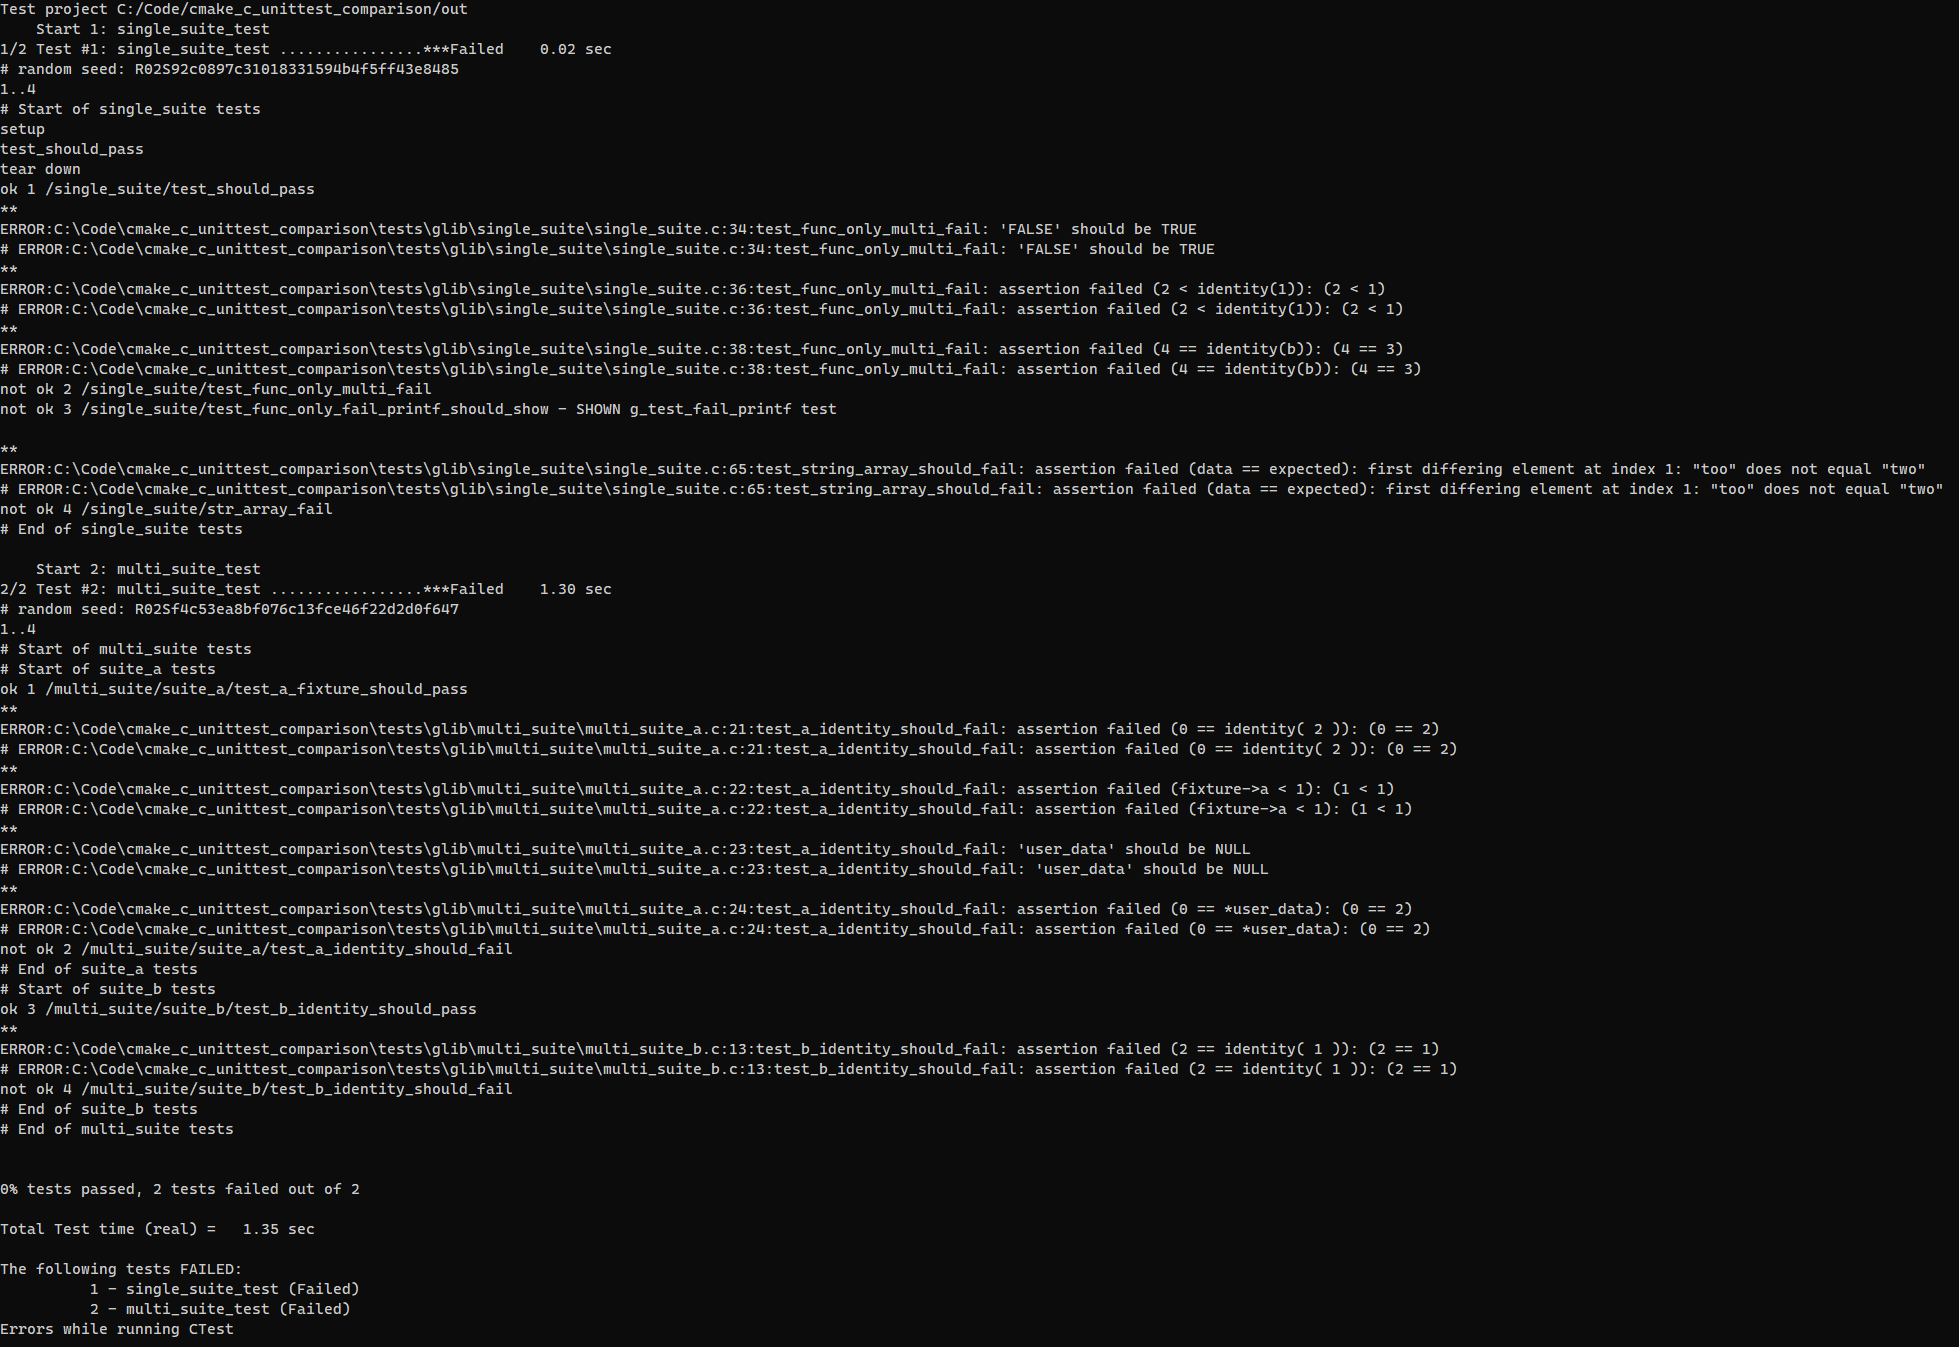
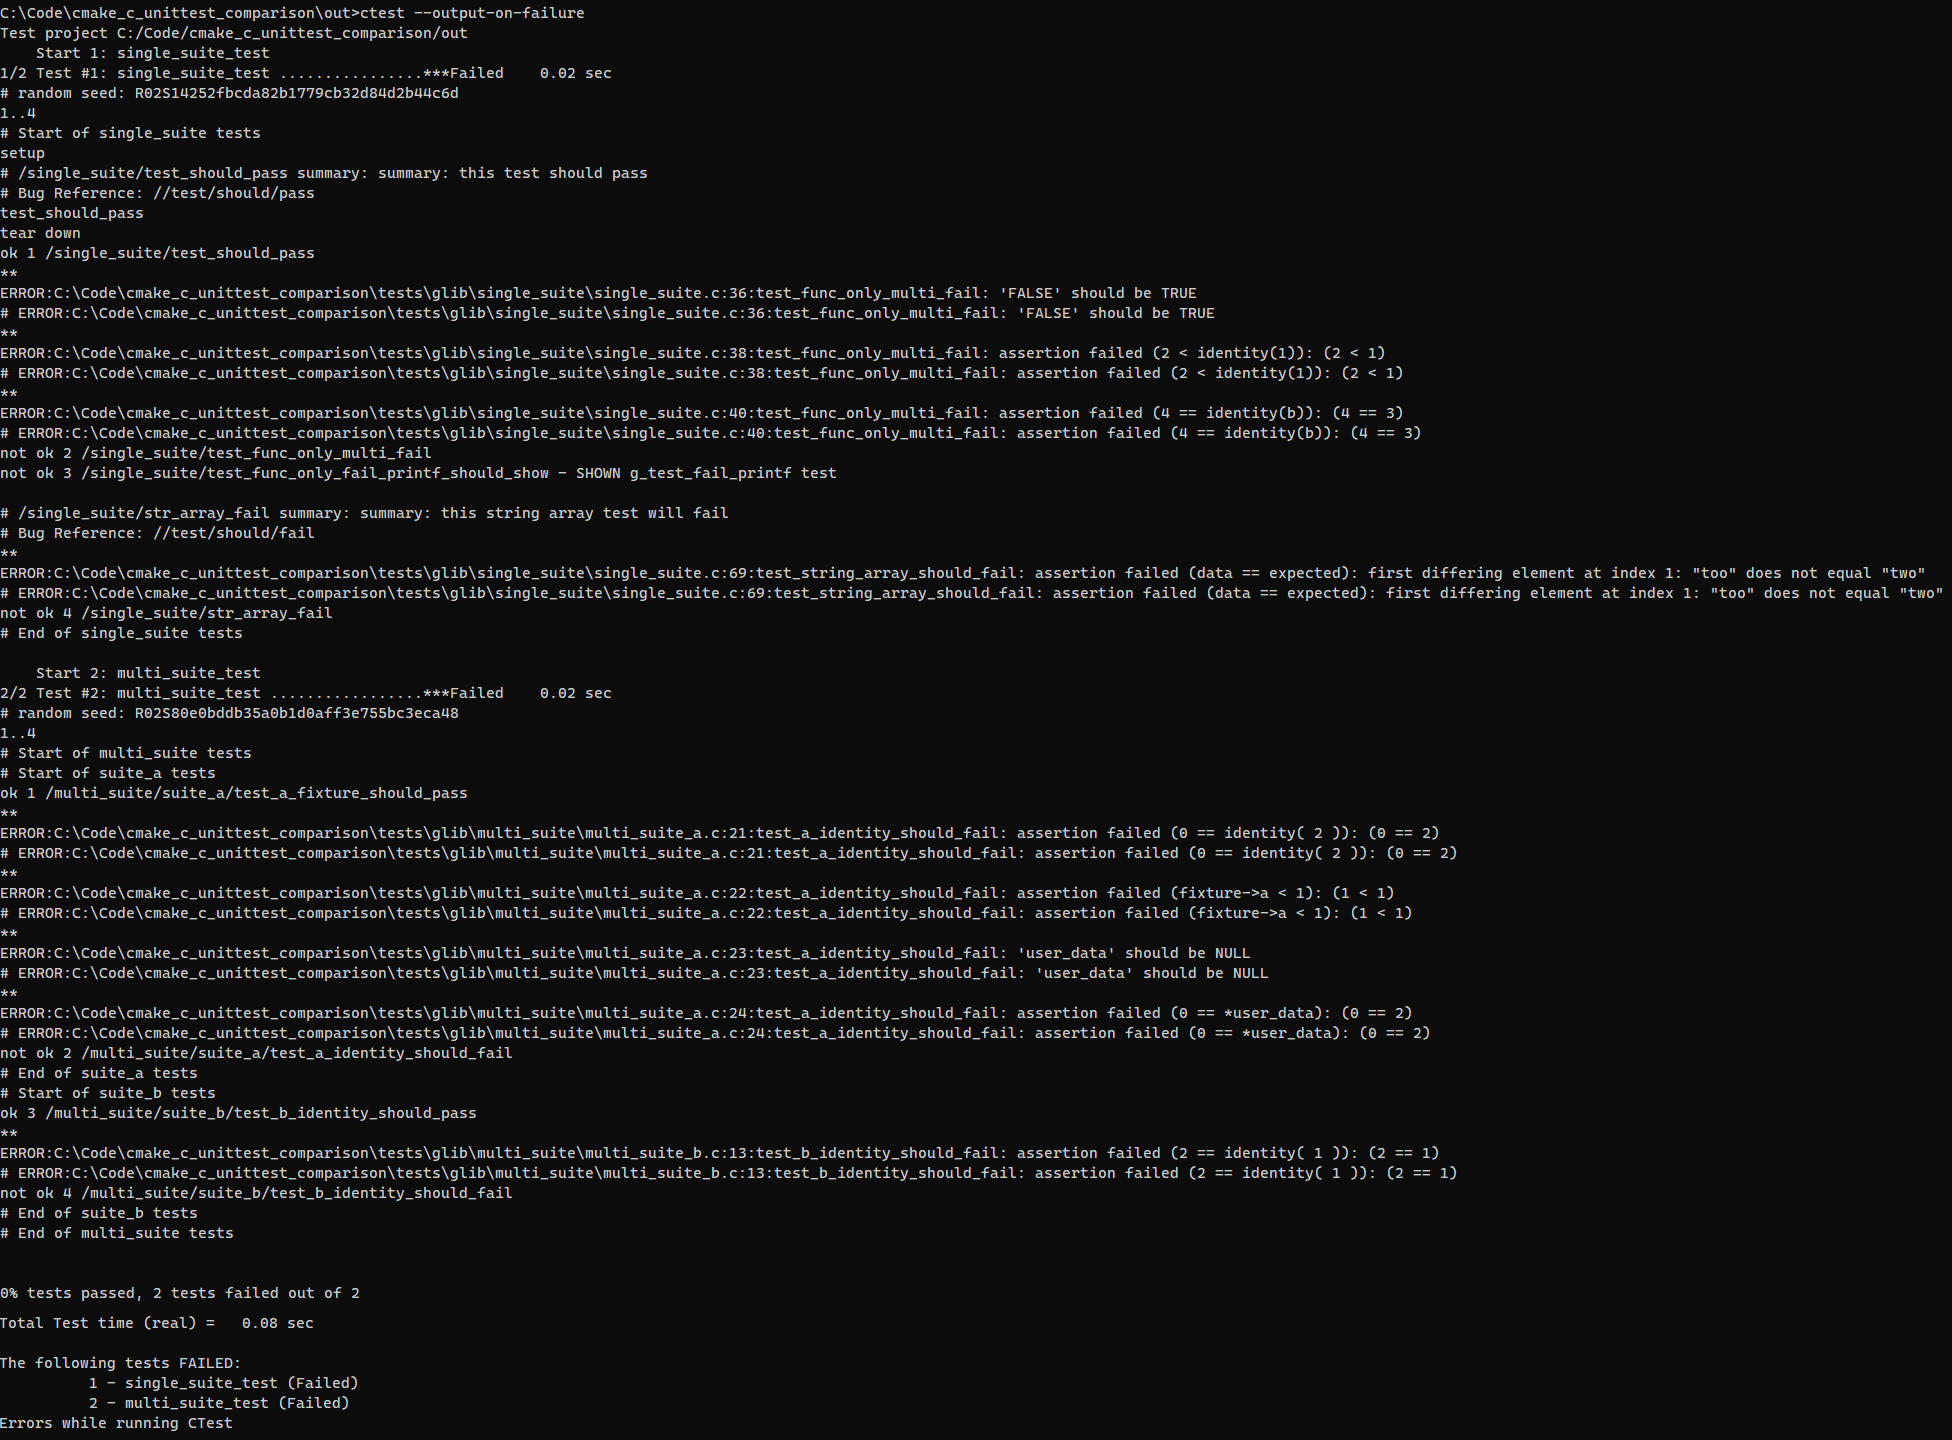
glib readme finished; test summary and bug code added to single suite

Changed region(s): [[0.0, 0.0, 1.0, 0.9978], [0.2812, 0.4677, 0.3125, 0.4989], [0.2812, 0.0935, 0.3125, 0.1247]]

diff --git a/tests/glib/single_suite/single_suite.c b/tests/glib/single_suite/single_suite.c
@@ -21,6 +21,8 @@ teardown( MyFixture *fixture, gconstpointer user_data )
 static void
 test_should_pass( MyFixture *fixture, gconstpointer user_data )
 {
+    g_test_summary("this test should pass");
+    g_test_bug("//test/should/pass");
     g_print("test_should_pass\n");
     g_assert_nonnull(fixture);
     g_assert_cmpint(fixture->a, ==, 1);
@@ -61,6 +63,8 @@ test_trap_failure_and_stdout( const int *user_data )
 static void
 test_string_array_should_fail( const char **expected )
 {
+    g_test_summary("this string array test will fail");
+    g_test_bug("//test/should/fail");
     const char *data[] = { "one", "too", "three", NULL };
     g_assert_cmpstrv( data, expected );
 }

diff --git a/README.md b/README.md
@@ -12,14 +12,13 @@ This is, obviously, a work in progress.
 
 ## 2. List of Candidates
 
-1. [GLib testing framework](https://docs.gtk.org/glib/testing.html)
-2. [cmocka](https://cmocka.org/)
-3. [µnit (munit)](https://nemequ.github.io/munit/)
-4. [ctest](https://github.com/bvdberg/ctest) (not the one included in CMake)
-5. [Cgreen](https://github.com/cgreen-devs/cgreen)
-6. [Criterion](https://github.com/Snaipe/Criterion/)
-7. [tau](https://github.com/jasmcaus/tau/)
-8. [libcester](https://github.com/exoticlibraries/libcester)
+1. [cmocka](https://cmocka.org/)
+2. [µnit (munit)](https://nemequ.github.io/munit/)
+3. [ctest](https://github.com/bvdberg/ctest) (not the one included in CMake)
+4. [Cgreen](https://github.com/cgreen-devs/cgreen)
+5. [Criterion](https://github.com/Snaipe/Criterion/)
+6. [tau](https://github.com/jasmcaus/tau/)
+7. [libcester](https://github.com/exoticlibraries/libcester)
 
 ## 3. Impressions
 
@@ -32,8 +31,6 @@ This is, obviously, a work in progress.
 - original home: <https://cunit.sourceforge.net/example.html>
 
 **Activity and Maintainers**: single developer; repo inactive; besides a recent version bump, last commit was >1 year ago.
-
-**Popularity**: mentioned in multiple forum discussions; it's a well known and mature library, I guess.
 
 **Documentation**: pre-fork CUnit has detailed docs; the new fork's docs don't go much beyond simple usage with the new CUnitCI API.
 
@@ -55,7 +52,6 @@ This is, obviously, a work in progress.
 - [x] test context shared via global variables
 - [x] easy to use with one executable / test code file  (see [single_suite](tests/cunit/single_suite/) example)
 - [x] multiple tests / suites can be linked into one executable (though this isn't well documented, see [multi_suite](tests/cunit/multi_suite/) example);
-- [ ] no mocking
 - [ ] no individual test timing
 
 **Asserts**:
@@ -120,8 +116,6 @@ Condition: 'CU_ASSERT_EQUAL(99,identity( a ))'
 
 **Activity and Maintainers**: 100+ contributors, though only 1 contributor has committed code in 2023 (as of April 2023). The last bugfix release was in 2021 Jan; last feature release in 2019 Oct; main maintainer [claims](https://groups.google.com/g/throwtheswitch/c/JKg9GgdeYHw) that development is active and going mostly in the direction of Ceedling and such, and the forums are pretty active too.
 
-**Popularity**: many mentions, seems to be popular
-
 **Documentation**: the docs describe a simple use case and that part is easy to understand, easy to implement and integrate. However, there'a lot beyond that that's hidden in the code and examples. For example, the only references on `unity_fixtures` are comments in the source and the [2nd example](https://github.com/ThrowTheSwitch/Unity/tree/master/examples/example_2). While it may not meant to be the main way to use Unity, it should be better documented if it exists. Also, some configuration options that are documented and are supposed to change the output (e.g. `UNITY_OUTPUT_FOR_ECLIPSE`) don't seem to be doing anything.
 
 **Ease of use**: easy; there's a "general" mode that suits 1 exe / code file, and a "fixture" mode with test group functionality; both modes are fairly simple to use... with exceptions in the latter due to lack of docs. On the other hand, a lot of additional functionality is provided by _Ruby_ scripts (e.g. test generators), which is unfortunate as I don't want to use _Ruby_.
@@ -141,7 +135,6 @@ Got a lot of warnings, though, when I actually included `unit_fixture` in the bu
 - [x] general usage of one test executable / file
 - [x] `setUp` and `tearDown` functions run before each test; context shared via global variables
 - [x] `unity_fixtures` can handle test groups; enables collecting tests from multiple files, and group-specific setup/teardown functions
-- [ ] no mocking, but CMock from same developer is recommended; uses Ruby scripts, though
 
 **Asserts**: [list](https://github.com/ThrowTheSwitch/Unity/blob/master/docs/UnityAssertionsReference.md)
 
@@ -174,34 +167,45 @@ Furthermore, the output is not consistent between `unity` and `unity_fixture`. T
 - home: <https://docs.gtk.org/glib/testing.html>
 - repo: <https://gitlab.gnome.org/GNOME/glib>
 
-**Activity and Maintainers**: active
-
-**Popularity**: GLib itself is well known, haven't found too many mentions of the test module itself, though.
+**Activity and Maintainers**: active; GLib has a big community
 
 **Documentation**: pretty good, same as GLib
 
-**Ease of use**: depends - it's easy to create and register tests, set up fixtures. On the other hand, I wasn't able to get subprocess _traps_ to work on Windows. First it errored out telling me that some kind of _helper_ was missing, then when I supplied `gspawn-win64-helper.exe` and `gspawn-win64-helper.exe`, it threw an error that it couldn't read from the subprocess's pipe. The _helper_ isn't mentioned in the docs, and there isn't much about it in forums either. I gave up and commented `test_trap_failure_and_stdout` out.
+**Ease of use**: depends - it's easy to create and register tests, set up fixtures. On the other hand, I wasn't able to get subprocess _traps_ to work on Windows. First it errored out telling me that some kind of _helper_ was missing, of which I found no mentions in the docs whatsoever. Digged up some related topics online that hinted at the existence of a helper executable on Windows. I was able to acquire `gspawn-win64-helper.exe` and `gspawn-win64-helper.exe` from a Gimp installation, but even with those present the test threw an error that it couldn't read from the subprocess's pipe. Again, not much information online how to solve that. I assume that a proper installation (build) of GLib would not have this issue(?), but I'd decided not to bother with that so I gave up and commented `test_trap_failure_and_stdout` out.
 
-**CMake integration**: More complex than the previous frameworks, definitely. First of all, on Windows, it's not trivial to get GLib **without** building it inside the likes of `MSYS2` and without `pkg-config`, both of which I decided not to install in the name of simplicity. Luckily, I use `Gstreamer` anyway, which includes compiled GLib libraries. I was also able to get `gspawn-win64-helper.exe` required for _traps_ from a Gimp installation; in the end, however, that didn't help either. So, if you already have Gstreamer, integrating GLib tests isn't that difficult. The CMake commands were not very complex: instead of configuring with `pkg-config`, the include and lib directories were added manually.
+**CMake integration**: More complex than Unity and CUnit, definitely. First of all, on Windows, it's not trivial to get GLib _without_ building it inside the likes of `MSYS2` and without `pkg-config`, both of which I decided not to install in the name of simplicity. Luckily, I use `Gstreamer` anyway, which includes compiled GLib libraries, at least enough for basic functionality. As mentioned above, I wasn't able to get subprocess _traps_ to work, even with a _helper_ executable copied from a Gimp installation. While GLib doesn't provide documentation for CMake (only Meson and Autotools), it wasn't very difficult to set CMake up: instead of configuring with `pkg-config`, though, include and lib directories were added manually.
 
 **General Features**:
 
-only string array comparison assert but can implement others using non-fatal asserts in loop
-optional non-fatal failures
-per-test setup/teardown with automatically allocated custom struct
-tests can optionally receive fixture and pointer to user data
-output duplicates errors on stdout and stderr, can be too verbose; it may not be possible to redirect one when using CTest
-tests organised hierarchically with path string (e.g. `/suite_1/test_1`), easy to group
-has _trap_ functionality for running tests that may not return in another process
-multiple ways of adding tests with multiple levels of detail defined, practical option, can be combined easily
-needs glib (on windows, easiest for me was installing gstreamer)
-
-- [ ] feature
+- [x] test hierarchy is defined with a "path" (e.g. "/suite_a/test_group_a/test_a"), which allows easy and clear organisation
+- [x] grouping tests into suites, groups using paths is part of basic functionality, nothing special required for multi-suite tests
+- [x] unlike Unity and CUnit, fixtures are not global variables but dynamically allocated types set up and torn down for each test; GLib takes care of allocation and freeing
+- [x] tests can receive fixture data and "global" user data
+- [x] multiple test registration functions covering different levels of complexity (no data, only user data, user data with cleanup, full with fixture and user data)
+- [x] _trap_ functionality to run tests that can abort / not return in a subprocess; I couldn't get this to work, though!
+- [x] extras: bug URI association, timer, teardown queue, test summary, log handling, etc.
 
 **Asserts**:
 
+- [x] failures can be non-fatal optionally (per executable option)
+- [x] standard set of type-specific asserts (TRUE/FALSE, NULL, float, (u)int, hex, str)
+- [x] some GLib-specific asserts (error, variant)
+- [x] assert for comparison of NULL-terminated string arrays
+- [x] memory comparison
+- [ ] no other array types supported
+- [ ] no range checking assert variants
+- [ ] no asserts for bit masks
+
 **Output**:
+
+- [x] shows executed code for failed tests
+- [x] variable values shown in specific tests
+- [ ] no custom messages for failed asserts
+- [x] bug URI and test summary messages (always shown)
+- [x] custom messages possible with `g_test_fail_printf` and `g_test_incomplete_printf`, but these don't coordinate with the asserts; in fact, the messages aren't displayed in the same test that has failing asserts (see `test_func_only_multi_fail` in [single_suite.c](tests/glib/single_suite/single_suite.c))
 
 ![GLib test result output](images/results_glib.png)
 
-**Issues**:
+The output's structure is, in my opinion, sub-optimal. I'm happy with the information shown, however, the `ok` or `not ok` lines, and test boundaries in general are difficult to spot, as one's attention is overwhelmed by the long and duplicated error lines. The duplication is due to those lines being sent to both stdout and stderr. While it's possible to reduce the clutter by redirecting one, I'm not sure how to do that with CTest, so the clutter remains.
+
+GLib Test is a versatile, easy-to-use test framework, which, compared to Unity and CUnit seems to have the best feature set. On the other hand, it's not as easy to build/integrate, unless you're already using GLib for the project.
